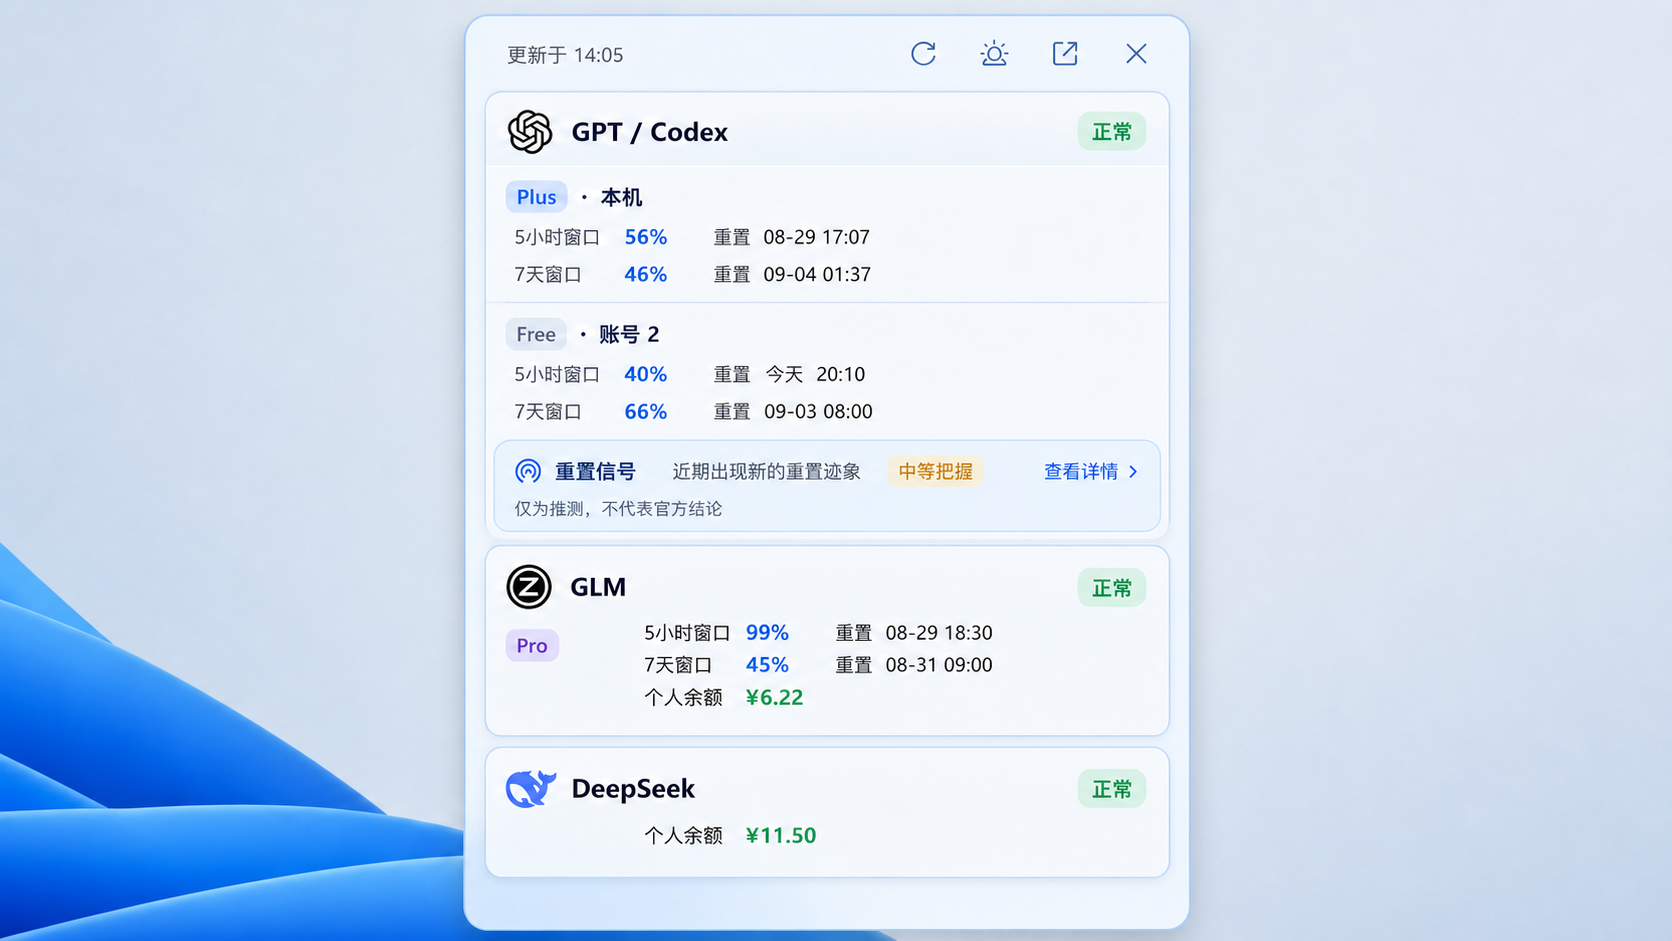
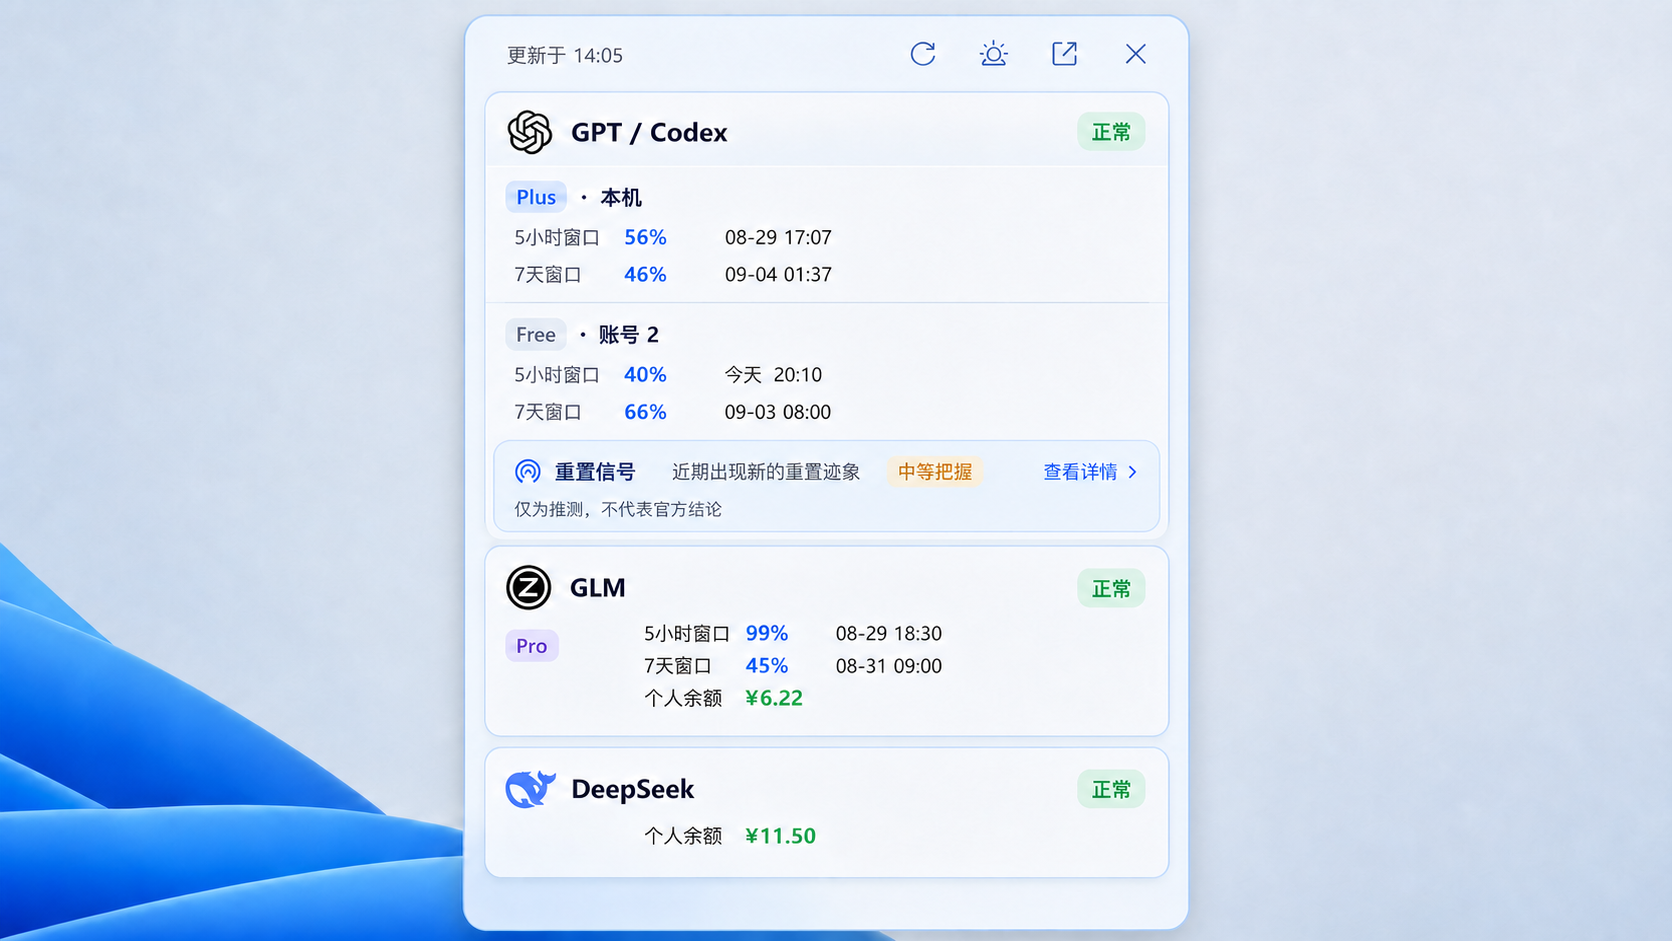
docs: 定稿悬浮详情方向与文案

diff --git a/docs/ui-design/2026-08-27-product-shell-v5/HOVERBAR-DETAIL-REDESIGN.md b/docs/ui-design/2026-08-27-product-shell-v5/HOVERBAR-DETAIL-REDESIGN.md
@@ -69,7 +69,8 @@ GPT / Codex        2 个账户       部分可用
 
 ## GPT 多账户与重置信号补充稿
 
-- `12-hoverbar-gpt-multi-account-radar-summary.png`：把平台状态固定在卡头右侧，Plus/Free 固定在对应账户行；完整展示每个账户的 5 小时、7 天窗口和重置时间。GPT 卡底部增加独立的重置信号摘要条，避免与额度指标混排。
+- `12-hoverbar-gpt-multi-account-radar-summary.png`：顶部/底部最终稿。把平台状态固定在卡头右侧，Plus/Free 固定在对应账户行；完整展示每个账户的 5 小时、7 天窗口和时间，时间前不再显示“重置”。保持窄版比例，不横向拉长。
 - `13-hoverbar-gpt-radar-detail.png`：点击摘要条后在悬浮面板内切换二级详情，展示来源摘要、最近三条 Tibo 中文动态和可选 AI 辅助分析；雷达结论始终标记为推测。
+- `14-hoverbar-detail-right-docked-final.png`：右侧停靠最终稿。面板贴右侧并向屏幕内侧展开，小球始终贴在屏幕最右边；左侧停靠时镜像处理。
 - 雷达来源状态、GPT 平台聚合状态和账户套餐类型属于三个不同语义，不共用一个徽章。
 - Tibo 中文翻译需要后续增加可缓存字段；没有真实翻译时不得由前端临时伪造。
